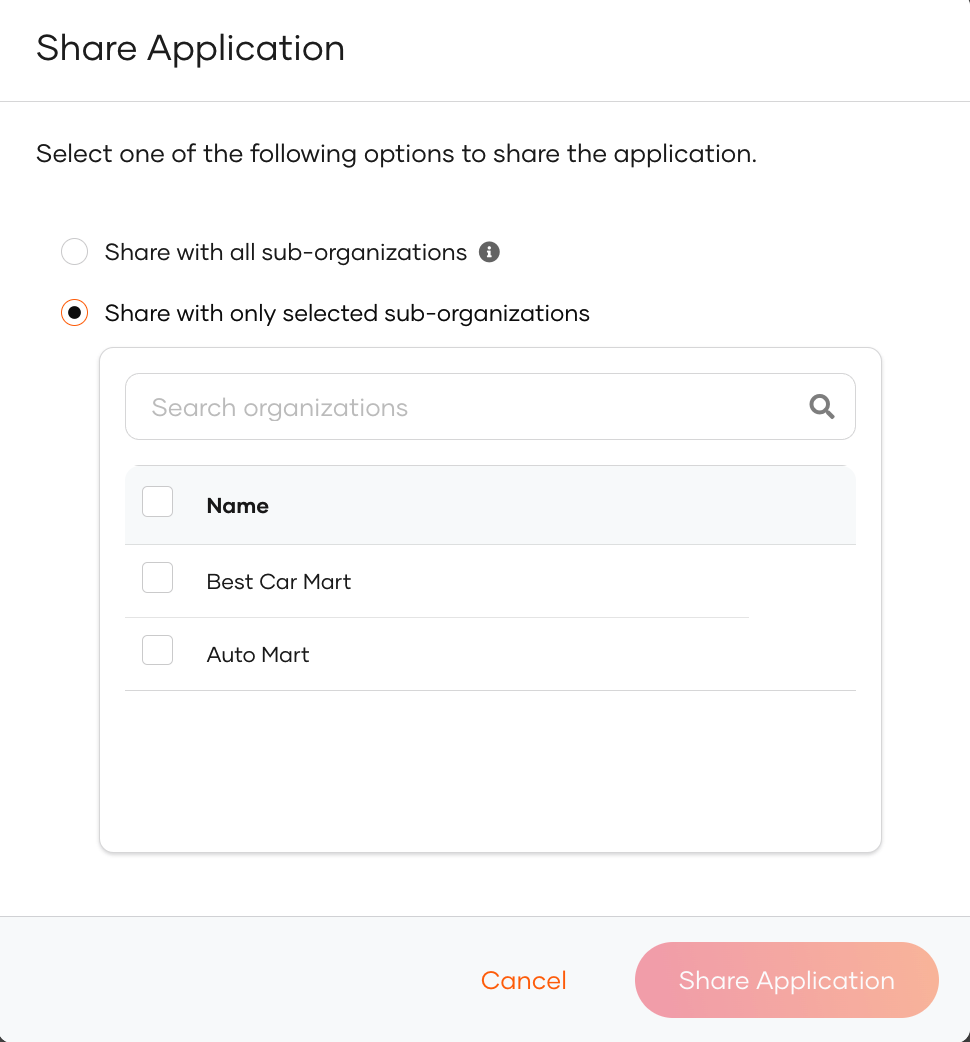
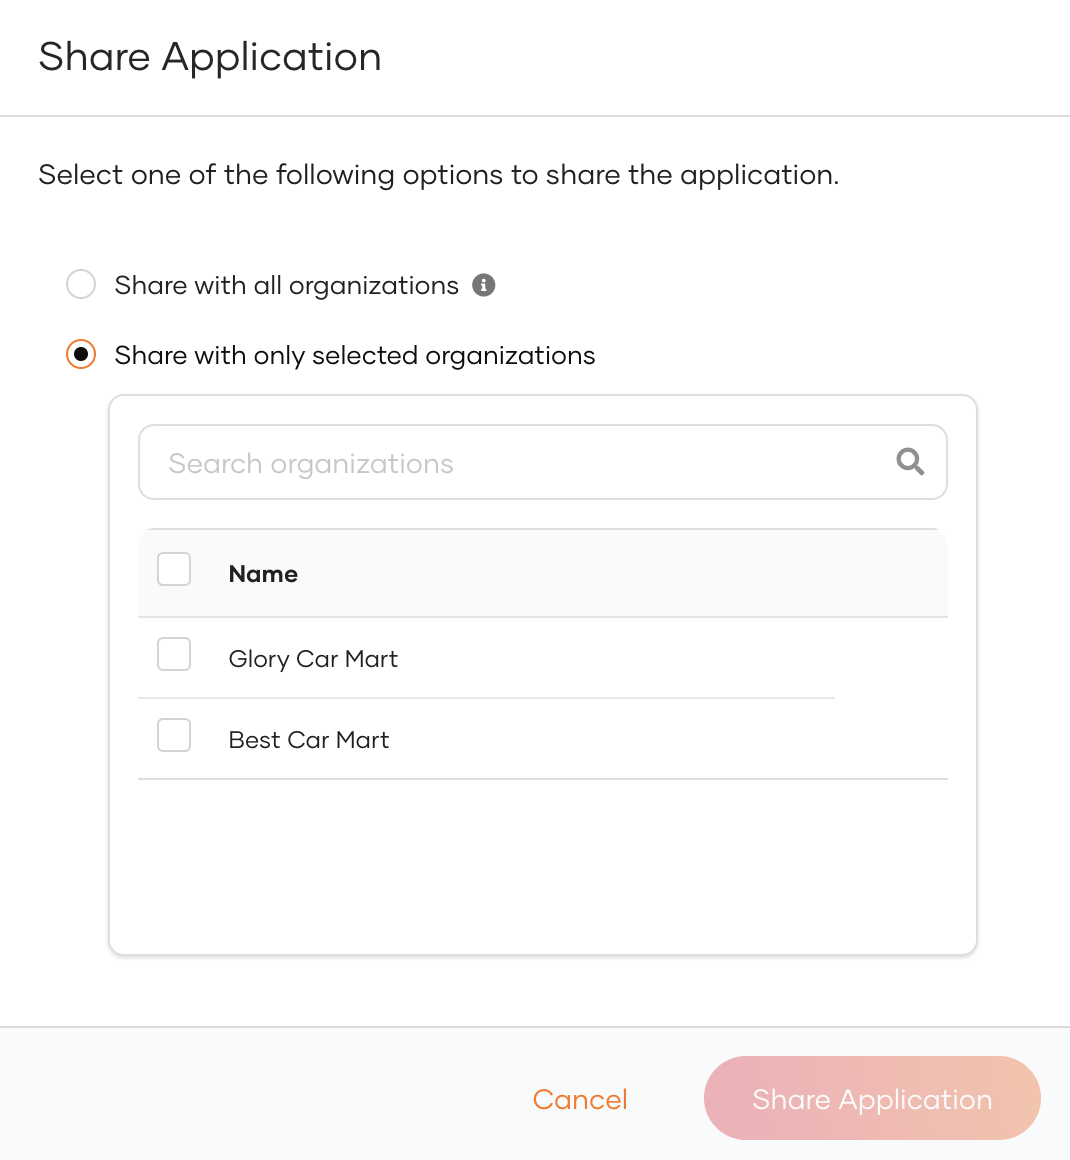
add m2m docs

diff --git a/en/includes/guides/applications/register-single-page-app.md b/en/includes/guides/applications/register-single-page-app.md
@@ -34,17 +34,17 @@ To register the app:
             <td>The URL to which the authorization code is sent upon user authentication and where the user is redirected upon logout. </br> Click <b>Add Now</b> if you want to try a sample app.</td>
         </tr>
         <tr>
-            <td>Allow sharing with sub-organizations</td>
-            <td>Enable this to share the new application with all or any selected suborganizations that belong to your root organization.</td>
+            <td>Allow sharing with organizations</td>
+            <td>Enable this to share the new application with all or any selected organizations that belong to your organization (root).</td>
         </tr>
     </table>
 
 4. Click **Register** to complete the registration.
 
     !!! note
-        If you have enabled **Allow sharing with sub-organizations** while registering the application, you will see a popup window with the following options.
+        If you have enabled **Allow sharing with organizations** while registering the application, you will see a popup window with the following options.
 
-        ![Share the application with suborganizations]({{base_path}}/assets/img/guides/applications/share-application.png){: width="500" style="display: block; margin: 0 auto; border: 0.3px solid lightgrey;"}
+        ![Share the application with organizations]({{base_path}}/assets/img/guides/applications/share-application.png){: width="500" style="display: block; margin: 0 auto; border: 0.3px solid lightgrey;"}
 
         <table>
             <tr>
@@ -52,12 +52,12 @@ To register the app:
                 <th>Description</th>
             </tr>
             <tr>
-                <td>Share with all sub-organizations</td>
-                <td>If selected, the application will be shared with all existing suborganizations and any new suborganizations you may create in the future.</td>
+                <td>Share with all organizations</td>
+                <td>If selected, the application will be shared with all existing organizations and any new organizations you may create in the future.</td>
             </tr>
             <tr>
-                <td>Share with only selected sub-organizations</td>
-                <td>If selected, you can select the suborganizations you wish to share the application with.</td>
+                <td>Share with only selected organizations</td>
+                <td>If selected, you can select the organizations you wish to share the application with.</td>
             </tr>
         </table>
 

diff --git a/en/includes/guides/applications/register-mobile-app.md b/en/includes/guides/applications/register-mobile-app.md
@@ -32,17 +32,17 @@ To register the app:
             <td>The URL to which the authorization code is sent to upon user authentication and where the user is redirected to upon logout.</td>
         </tr>
         <tr>
-            <td>Allow sharing with sub-organizations</td>
-            <td>Enable this to share the new application with all or any selected suborganizations that belong to your root organization.</td>
+            <td>Allow sharing with organizations</td>
+            <td>Enable this to share the new application with all or any selected organizations that belong to your organization (root).</td>
         </tr>
     </table>
 
 5. Click **Register** to complete the registration.
 
     !!! note
-        If you have enabled **Allow sharing with sub-organizations** while registering the application, you will see a popup window with the following options.
+        If you have enabled **Allow sharing with organizations** while registering the application, you will see a popup window with the following options.
 
-        ![Share the application with suborganizations]({{base_path}}/assets/img/guides/applications/share-application.png){: width="500" style="display: block; margin: 0 auto; border: 0.3px solid lightgrey;"}
+        ![Share the application with organizations]({{base_path}}/assets/img/guides/applications/share-application.png){: width="500" style="display: block; margin: 0 auto; border: 0.3px solid lightgrey;"}
 
         <table>
             <tr>
@@ -50,12 +50,12 @@ To register the app:
                 <th>Description</th>
             </tr>
             <tr>
-                <td>Share with all sub-organizations</td>
-                <td>If selected, the application will be shared with all existing suborganizations and any new suborganizations you may create in the future.</td>
+                <td>Share with all organizations</td>
+                <td>If selected, the application will be shared with all existing organizations and any new organizations you may create in the future.</td>
             </tr>
             <tr>
-                <td>Share with only selected sub-organizations</td>
-                <td>If selected, you can select the suborganizations you wish to share the application with.</td>
+                <td>Share with only selected organizations</td>
+                <td>If selected, you can select the organizations you wish to share the application with.</td>
             </tr>
         </table>
 

diff --git a/en/includes/guides/applications/register-oidc-web-app.md b/en/includes/guides/applications/register-oidc-web-app.md
@@ -39,17 +39,17 @@ To register the app:
             </td>
         </tr>
         <tr>
-            <td>Allow sharing with sub-organizations</td>
-            <td>Enable this to share the new application with all or any selected suborganizations that belong to your root organization.</td>
+            <td>Allow sharing with organizations</td>
+            <td>Enable this to share the new application with all or any selected organizations that belong to your organization (root).</td>
         </tr>
     </table>
 
 4. Click **Register** to complete the registration.
 
     !!! note
-        If you have enabled **Allow sharing with sub-organizations** while registering the application, you will see a popup window with the following options.
+        If you have enabled **Allow sharing with organizations** while registering the application, you will see a popup window with the following options.
 
-        ![Share the application with suborganizations]({{base_path}}/assets/img/guides/applications/share-application.png){: width="500" style="display: block; margin: 0 auto; border: 0.3px solid lightgrey;"}
+        ![Share the application with organizations]({{base_path}}/assets/img/guides/applications/share-application.png){: width="500" style="display: block; margin: 0 auto; border: 0.3px solid lightgrey;"}
 
         <table>
             <tr>
@@ -57,12 +57,12 @@ To register the app:
                 <th>Description</th>
             </tr>
             <tr>
-                <td>Share with all sub-organizations</td>
-                <td>If selected, the application will be shared with all existing suborganizations and any new suborganizations you may create in the future.</td>
+                <td>Share with all organizations</td>
+                <td>If selected, the application will be shared with all existing organizations and any new organizations you may create in the future.</td>
             </tr>
             <tr>
-                <td>Share with only selected sub-organizations</td>
-                <td>If selected, you can select the suborganizations you wish to share the application with.</td>
+                <td>Share with only selected organizations</td>
+                <td>If selected, you can select the organizations you wish to share the application with.</td>
             </tr>
         </table>
 

diff --git a/en/includes/guides/applications/register-saml-web-app.md b/en/includes/guides/applications/register-saml-web-app.md
@@ -41,14 +41,14 @@ To register the app:
         </tr>
     </table>
 
-6. [Optional] Enable **Allow sharing with sub-organizations** to share the new application with all or any selected suborganizations that belong to your root organization.
+6. [Optional] Enable **Allow sharing with organizations** to share the new application with all or any selected organizations that belong to your organization (root).
 
 7. Click **Register** to complete the registration.
 
     !!! note
-        If you have enabled **Allow sharing with sub-organizations** while registering the application, you will see a popup window with the following options.
+        If you have enabled **Allow sharing with organizations** while registering the application, you will see a popup window with the following options.
 
-        ![Share the application with suborganizations]({{base_path}}/assets/img/guides/applications/share-application.png){: width="500" style="display: block; margin: 0 auto; border: 0.3px solid lightgrey;"}
+        ![Share the application with organizations]({{base_path}}/assets/img/guides/applications/share-application.png){: width="500" style="display: block; margin: 0 auto; border: 0.3px solid lightgrey;"}
 
         <table>
             <tr>
@@ -56,12 +56,12 @@ To register the app:
                 <th>Description</th>
             </tr>
             <tr>
-                <td>Share with all sub-organizations</td>
-                <td>If selected, the application will be shared with all existing suborganizations and any new suborganizations you may create in the future.</td>
+                <td>Share with all organizations</td>
+                <td>If selected, the application will be shared with all existing organizations and any new organizations you may create in the future.</td>
             </tr>
             <tr>
-                <td>Share with only selected sub-organizations</td>
-                <td>If selected, you can select the suborganizations you wish to share the application with.</td>
+                <td>Share with only selected organizations</td>
+                <td>If selected, you can select the organizations you wish to share the application with.</td>
             </tr>
         </table>
 

diff --git a/en/includes/guides/applications/register-machine-to-machine-app.md b/en/includes/guides/applications/register-machine-to-machine-app.md
@@ -1,0 +1,41 @@
+# Register a Machine-to-Machine (M2M) application
+
+To integrate your machine-to-machine(M2M) application with {{ product_name }}, you need to first register your application from the {{ product_name }} Console. 
+Then you can authorize your M2M applications to access management APIs of {{ product_name }} or your business APIs.
+A client ID and client secret are issued to the application upon registration.
+
+Follow the instructions given below.
+
+## Register the app
+
+To register the app:
+
+1. On the {{ product_name }} Console, click **Applications**.
+
+    ![Select app type]({{base_path}}/assets/img/guides/applications/select-app-type.png){: width="600" style="display: block; margin: 0 auto; border: 0.3px solid lightgrey;"}
+
+2. Click **New Application** and select **M2M Application**.
+
+3. In the **Name** field, enter a unique name to identify your application.
+
+4. Click **Register** to complete the registration.
+
+## Authorize the API resources for the app
+
+You can authorize your M2M applications to access APIs and their scopes(permissions) from **API Authorization** tab of the application, as shown below.
+
+![Authorize API]({{base_path}}/assets/img/guides/applications/authorize-api-to-m2m.png){: width="600" style="display: block; margin: 0 auto; border: 0.3px solid lightgrey;"}
+
+Learn more about [API authorization]({{base_path}}/guides/api-authorization/).
+
+## Get the client ID and secret
+
+When you register your M2M application, a client ID and client secret are generated. Your M2M application will identify itself to {{ product_name }} with these credentials.
+
+You can get this client ID and client secret from the **Protocol** tab of the application, as shown below.
+
+![Get client ID and secret of M2M app]({{base_path}}/assets/img/guides/applications/client-id-secret-m2m.png){: width="600" style="display: block; margin: 0 auto; border: 0.3px solid lightgrey;"}
+
+## What's Next?
+
+- [Obtain an M2M token using client credential grant]({{base_path}}/references/grant-types/#client-credentials-grant)

diff --git a/en/includes/guides/applications/register-standard-based-app.md b/en/includes/guides/applications/register-standard-based-app.md
@@ -31,9 +31,9 @@ To register an application:
 4. Click **Register** to complete the registration.
 
     !!! note
-        If you have enabled **Allow sharing with sub-organizations** while registering the application, you will see a popup window with the following options.
+        If you have enabled **Allow sharing with organizations** while registering the application, you will see a popup window with the following options.
 
-        ![Share the application with suborganizations]({{base_path}}/assets/img/guides/applications/share-application.png){: width="500" style="display: block; margin: 0 auto; border: 0.3px solid lightgrey;"}
+        ![Share the application with organizations]({{base_path}}/assets/img/guides/applications/share-application.png){: width="500" style="display: block; margin: 0 auto; border: 0.3px solid lightgrey;"}
 
         <table>
             <tr>
@@ -41,12 +41,12 @@ To register an application:
                 <th>Description</th>
             </tr>
             <tr>
-                <td>Share with all sub-organizations</td>
-                <td>If selected, the application will be shared with all existing suborganizations and any new suborganizations you may create in the future.</td>
+                <td>Share with all organizations</td>
+                <td>If selected, the application will be shared with all existing organizations and any new organizations you may create in the future.</td>
             </tr>
             <tr>
-                <td>Share with only selected sub-organizations</td>
-                <td>If selected, you can select the suborganizations you wish to share the application with.</td>
+                <td>Share with only selected organizations</td>
+                <td>If selected, you can select the organizations you wish to share the application with.</td>
             </tr>
         </table>
 

diff --git a/en/includes/guides/applications/index.md b/en/includes/guides/applications/index.md
@@ -2,7 +2,7 @@
 
 Regardless of the application type or the development technology, you can connect your application with {{ product_name }} and control the way users log in to your app.
 
-Currently, {{ product_name }} supports integrating four application types. When you select an application type, {{ product_name }} provides all the recommended configs in place by default which you can change as needed later.
+Currently, {{ product_name }} supports integrating {{ no_of_supported_app_types }} application types. When you select an application type, {{ product_name }} provides all the recommended configs in place by default which you can change as needed later.
 
 ## Single-page applications
 
@@ -34,6 +34,15 @@ Mobile applications are apps that run on mobile devices. Android and iOS are som
 Standard-based applications allow users to configure the application protocol settings (OIDC or SAML) from scratch.
 
 - [Register a standard-based application]({{base_path}}/guides/applications/register-standard-based-app)
+
+{% if product_name == "WSO2 Identity Server" %}
+## Machine-to-Machine (M2M) applications
+
+Machine-to-Machine applications, often referred to as M2M applications, are a category of applications designed for automated communication and interaction between devices or services without direct human intervention.
+Unlike user-centric applications, M2M applications cater to non-interactive scenarios, including command-line tools, daemons, IoT (Internet of Things) devices, or services running on the backend.
+
+- [Register a machine-to-machine application]({{base_path}}/guides/applications/register-machine-to-machine-app/)
+{% endif %}
 
 ## Self-Service (My Account) portal
 

diff --git a/en/identity-server/next/docs/guides/applications/index.md b/en/identity-server/next/docs/guides/applications/index.md
@@ -1,2 +1,2 @@
-{% set product_name = "WSO2 Identity Server" %}
+{% set no_of_supported_app_types = "five" %}
 {% include "../../../../../includes/guides/applications/index.md" %}

diff --git a/en/asgardeo/docs/guides/applications/index.md b/en/asgardeo/docs/guides/applications/index.md
@@ -1,2 +1,2 @@
-{% set product_name = "Asgardeo" %}
+{% set no_of_supported_app_types = "four" %}
 {% include "../../../../includes/guides/applications/index.md" %}

diff --git a/en/identity-server/next/docs/guides/applications/register-machine-to-machine-app.md b/en/identity-server/next/docs/guides/applications/register-machine-to-machine-app.md
@@ -1,0 +1,1 @@
+{% include "../../../../../includes/guides/applications/register-machine-to-machine-app.md" %}

diff --git a/en/asgardeo/docs/guides/applications/register-machine-to-machine-app.md b/en/asgardeo/docs/guides/applications/register-machine-to-machine-app.md
@@ -1,0 +1,1 @@
+{% include "../../../../includes/guides/applications/register-machine-to-machine-app.md" %}
